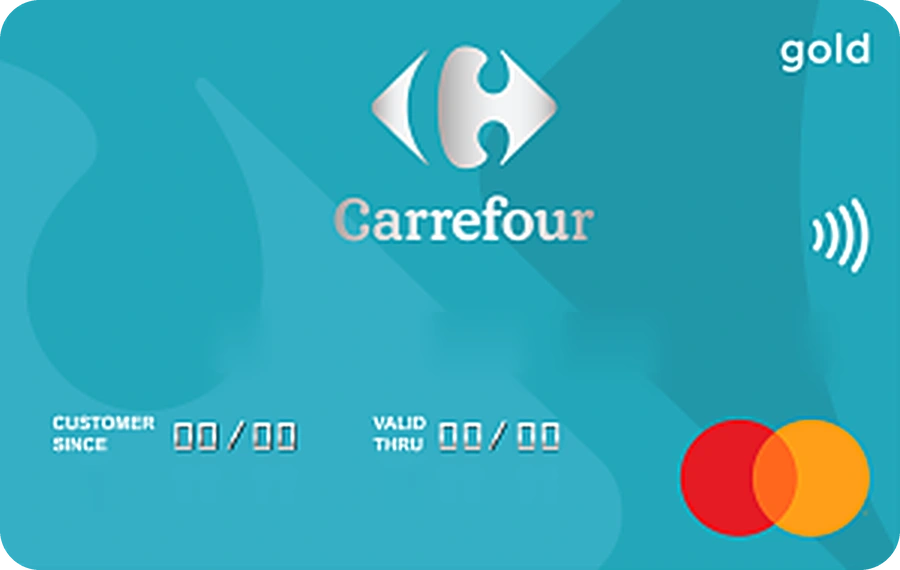
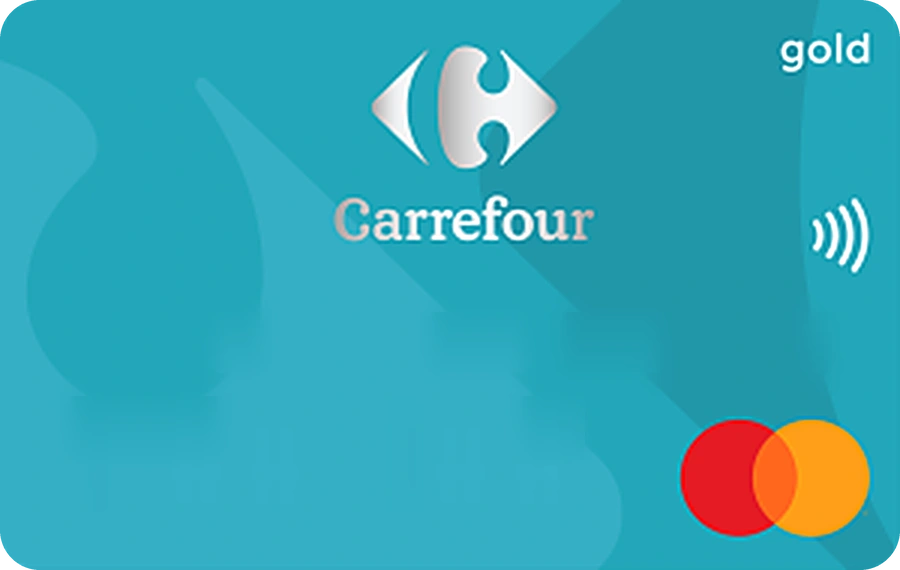
Fluxo PF: Carrefour sem Customer since / Valid thru

Changed region(s): [[0.0622, 0.7158, 0.3422, 0.8053], [0.4044, 0.7158, 0.6222, 0.8053]]

diff --git a/pf.js b/pf.js
@@ -362,7 +362,7 @@
   // Bancos usam assets/bancos/<id>.png; lojas usam assets/emissores/<id>.png (troque o arquivo pelo logo oficial quando quiser).
   const EMISSORES = [['bradesco', 'Bradesco', 'b'], ['nubank', 'Nubank', 'b'], ['itau', 'Itaú', 'b'], ['santander', 'Santander', 'b'], ['bb', 'Banco do Brasil', 'b'], ['caixa', 'Caixa', 'b'], ['inter', 'Inter', 'b'], ['c6', 'C6 Bank', 'b'], ['mercadopago', 'Mercado Pago', 'b'], ['brb', 'BRB', 'b'], ['digio', 'Digio', 'b'], ['picpay', 'PicPay', 'b'], ['carrefour', 'Carrefour', 'e'], ['renner', 'Renner', 'e'], ['marisa', 'Marisa', 'e'], ['vestcasa', 'Vest Casa', 'e'], ['dmcard', 'DM Card', 'e'], ['maiscard', 'Cartão Mais', 'e'], ['dibs', 'Dibs', 'e'], ['negreiros', 'Mercado Negreiros', 'e'], ['fernando', 'Armarinhos Fernando', 'e'], ['amazon', 'Amazon', 'e'], ['outro', 'Outro', '']];
   const emissorDe = c => { if (!c) return ''; if (c.emissor) return c.emissor; const n = norm(c.nome || ''), pal = x => new RegExp('(^|[^a-z0-9])' + x + '([^a-z0-9]|$)').test(n); return /bradesco/.test(n) ? 'bradesco' : (/nubank/.test(n) || pal('nu')) ? 'nubank' : /itau/.test(n) ? 'itau' : /santander/.test(n) ? 'santander' : (/brasil/.test(n) || pal('bb')) ? 'bb' : /caixa/.test(n) ? 'caixa' : pal('inter') ? 'inter' : pal('c6') ? 'c6' : /mercado *pago/.test(n) ? 'mercadopago' : pal('brb') ? 'brb' : /digio/.test(n) ? 'digio' : /picpay/.test(n) ? 'picpay' : /carrefour/.test(n) ? 'carrefour' : /renner/.test(n) ? 'renner' : /marisa/.test(n) ? 'marisa' : /vest *casa/.test(n) ? 'vestcasa' : (pal('dm') || /dm *card/.test(n)) ? 'dmcard' : /mais/.test(n) ? 'maiscard' : /dibs/.test(n) ? 'dibs' : /negreiros/.test(n) ? 'negreiros' : /fernando/.test(n) ? 'fernando' : /amazon/.test(n) ? 'amazon' : ''; };
-  const imagemDe = c => { if (!c) return ''; if (c.imagem) return c.imagem; const n = norm(c.nome || ''); if (emissorDe(c) === 'nubank' && /master/i.test(c.bandeira || '')) return 'assets/cartoes/nubank-mastercard.webp?v=1'; if (emissorDe(c) === 'caixa' && /visa/i.test(c.bandeira || '')) return 'assets/cartoes/caixa-visa.webp?v=1'; if (emissorDe(c) === 'brb' && /visa/i.test(c.bandeira || '')) return 'assets/cartoes/brb-visa.webp?v=1'; if (emissorDe(c) === 'digio' && /visa/i.test(c.bandeira || '')) return 'assets/cartoes/digio-visa.webp?v=1'; if (emissorDe(c) === 'amazon' && /master/i.test(c.bandeira || '')) return 'assets/cartoes/amazon-mastercard.webp?v=2'; if (emissorDe(c) === 'negreiros') return 'assets/cartoes/negreiros.webp?v=3'; if (emissorDe(c) === 'vestcasa') return 'assets/cartoes/vestcasa.webp?v=4'; if (emissorDe(c) === 'fernando') return 'assets/cartoes/fernando.webp?v=1'; if (emissorDe(c) === 'dmcard') return 'assets/cartoes/dmcard.webp?v=1'; if (emissorDe(c) === 'renner') return 'assets/cartoes/renner.webp?v=1'; if (emissorDe(c) === 'marisa') return 'assets/cartoes/marisa.webp?v=1'; if (emissorDe(c) === 'dibs') return 'assets/cartoes/dibs.webp?v=1'; if (emissorDe(c) === 'maiscard') return 'assets/cartoes/maiscard.webp?v=1'; if (emissorDe(c) === 'carrefour') return 'assets/cartoes/carrefour.webp?v=1'; return /bradesco/.test(n) && /disney/.test(n) ? 'assets/cartoes/bradesco-disney.webp?v=4' : (/bradesco/.test(n) && /(^|[^a-z0-9])neo([^a-z0-9]|$)/.test(n) ? 'assets/cartoes/bradesco-neo.webp?v=4' : ''); };
+  const imagemDe = c => { if (!c) return ''; if (c.imagem) return c.imagem; const n = norm(c.nome || ''); if (emissorDe(c) === 'nubank' && /master/i.test(c.bandeira || '')) return 'assets/cartoes/nubank-mastercard.webp?v=1'; if (emissorDe(c) === 'caixa' && /visa/i.test(c.bandeira || '')) return 'assets/cartoes/caixa-visa.webp?v=1'; if (emissorDe(c) === 'brb' && /visa/i.test(c.bandeira || '')) return 'assets/cartoes/brb-visa.webp?v=1'; if (emissorDe(c) === 'digio' && /visa/i.test(c.bandeira || '')) return 'assets/cartoes/digio-visa.webp?v=1'; if (emissorDe(c) === 'amazon' && /master/i.test(c.bandeira || '')) return 'assets/cartoes/amazon-mastercard.webp?v=2'; if (emissorDe(c) === 'negreiros') return 'assets/cartoes/negreiros.webp?v=3'; if (emissorDe(c) === 'vestcasa') return 'assets/cartoes/vestcasa.webp?v=4'; if (emissorDe(c) === 'fernando') return 'assets/cartoes/fernando.webp?v=1'; if (emissorDe(c) === 'dmcard') return 'assets/cartoes/dmcard.webp?v=1'; if (emissorDe(c) === 'renner') return 'assets/cartoes/renner.webp?v=1'; if (emissorDe(c) === 'marisa') return 'assets/cartoes/marisa.webp?v=1'; if (emissorDe(c) === 'dibs') return 'assets/cartoes/dibs.webp?v=1'; if (emissorDe(c) === 'maiscard') return 'assets/cartoes/maiscard.webp?v=1'; if (emissorDe(c) === 'carrefour') return 'assets/cartoes/carrefour.webp?v=2'; return /bradesco/.test(n) && /disney/.test(n) ? 'assets/cartoes/bradesco-disney.webp?v=4' : (/bradesco/.test(n) && /(^|[^a-z0-9])neo([^a-z0-9]|$)/.test(n) ? 'assets/cartoes/bradesco-neo.webp?v=4' : ''); };
   function emissorLogo(id, z) {
     z = z || 24; const e = EMISSORES.find(x => x[0] === id);
     if (!e || e[2] === '') return bancoLogo('outro', z);
